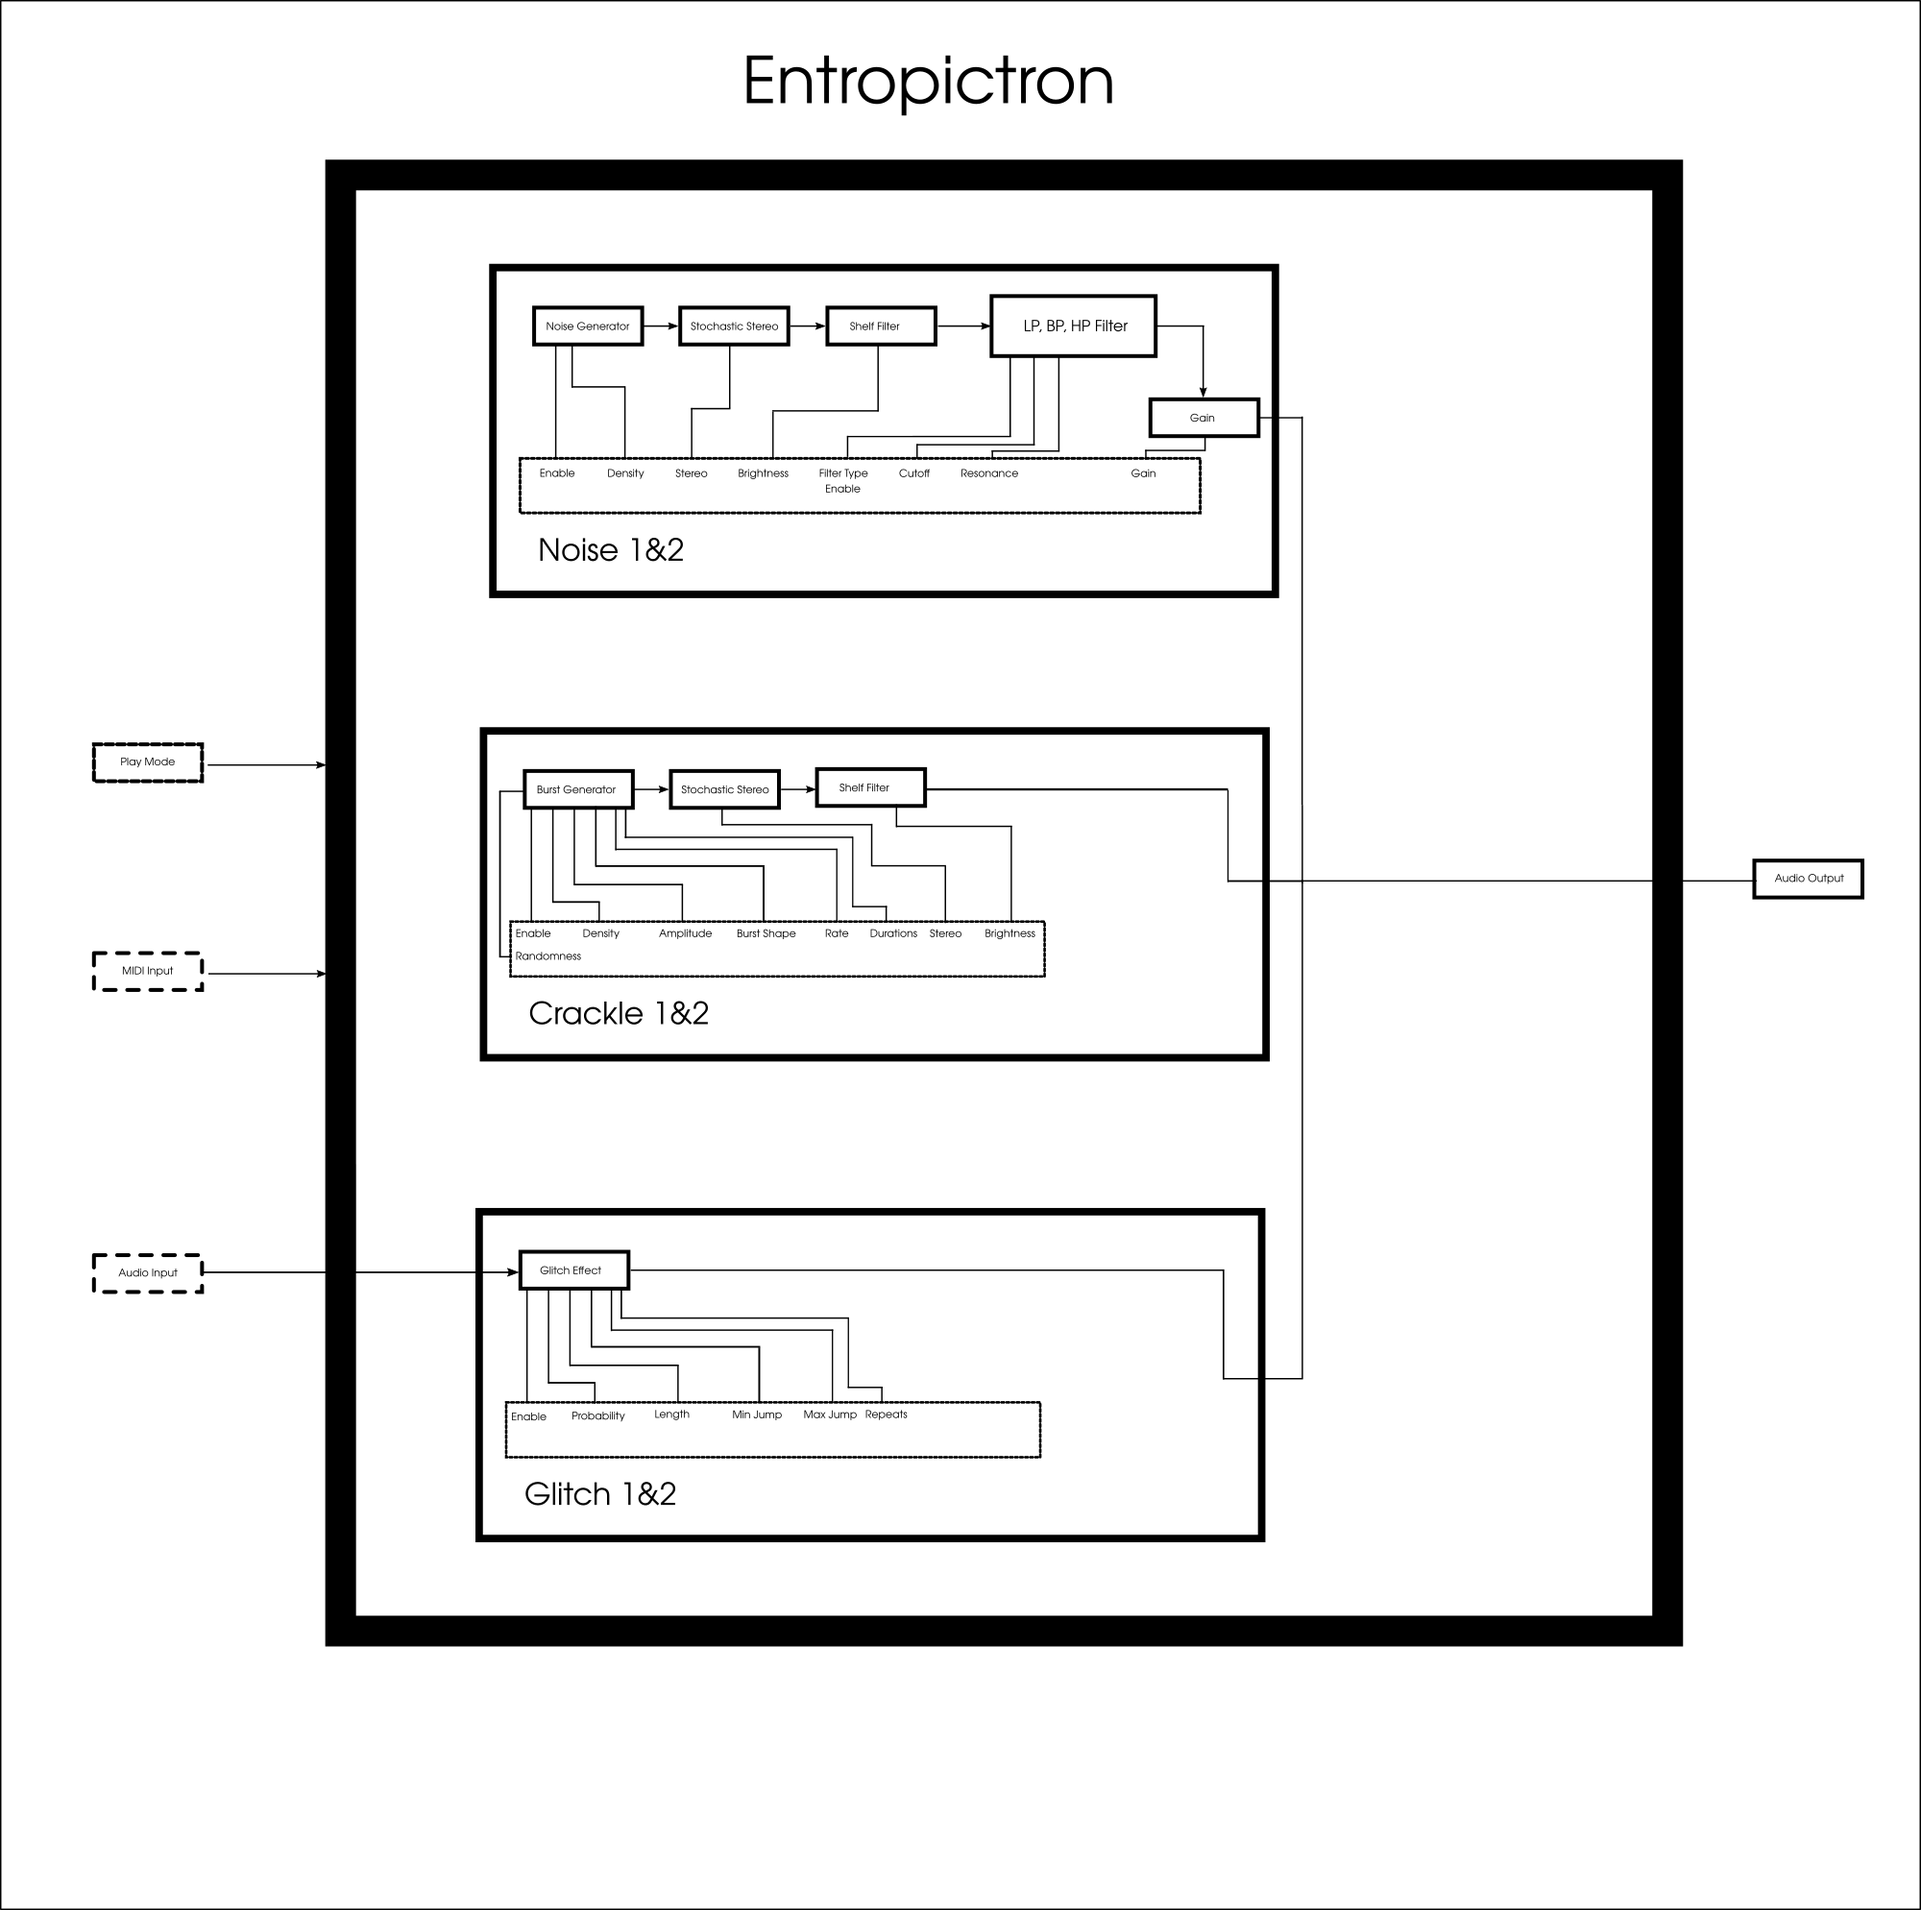
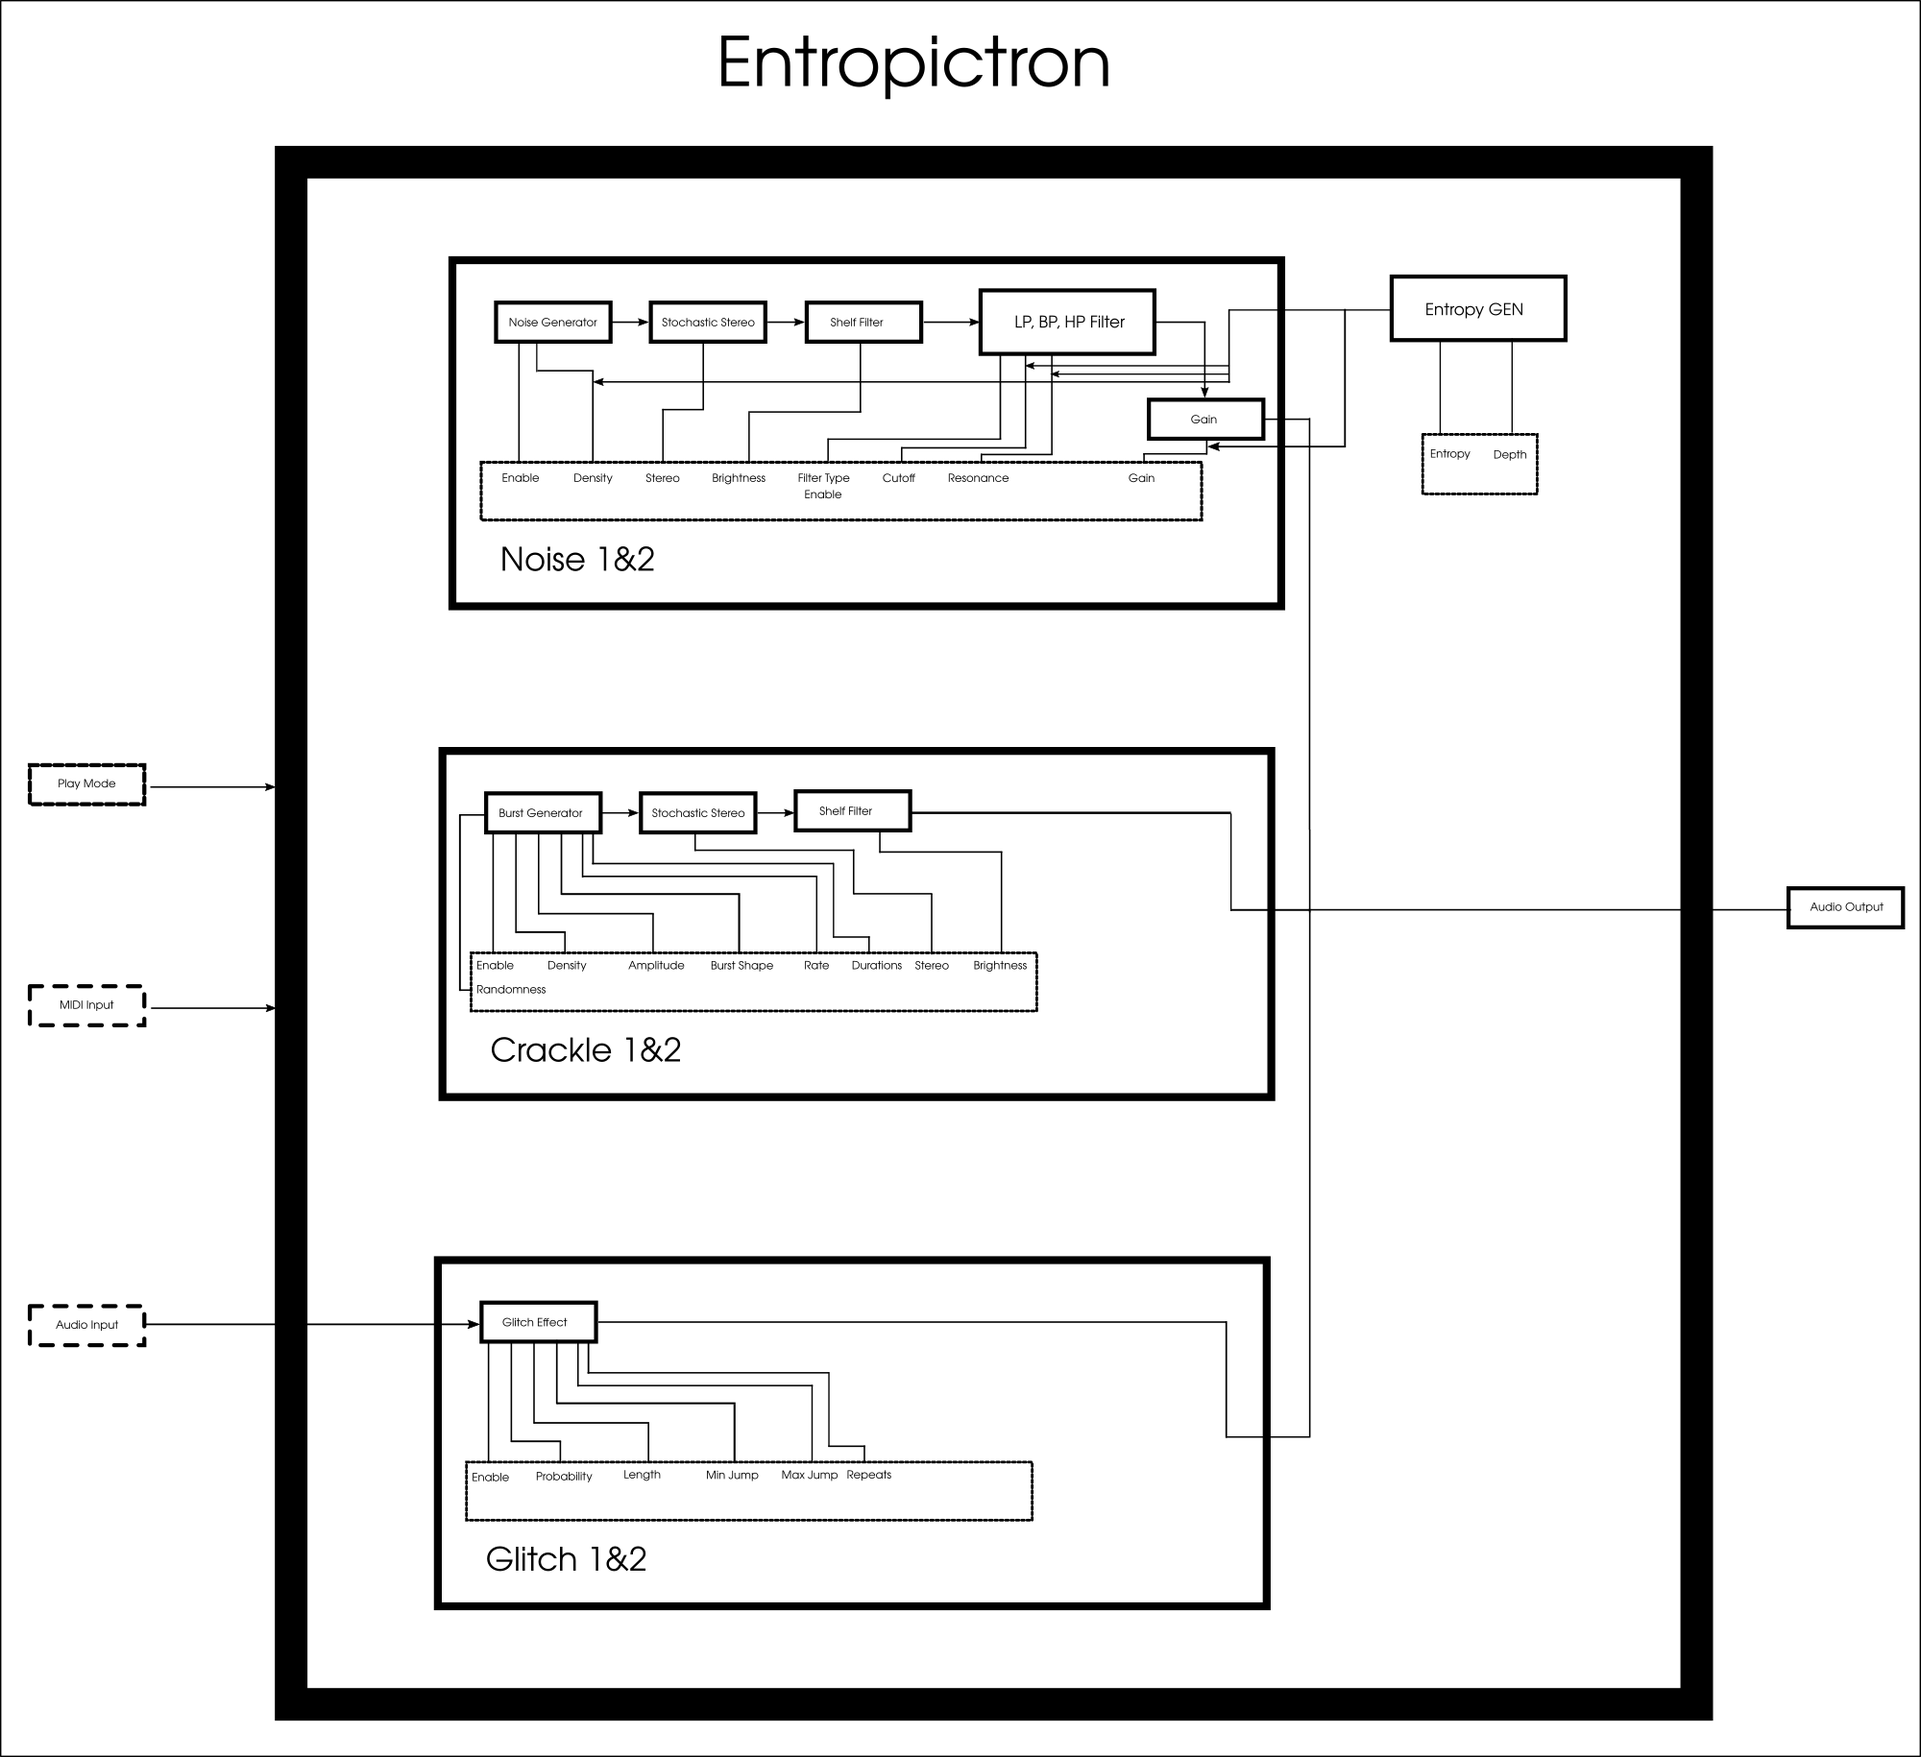
update doc

diff --git a/doc/Entropictron_User_Guide.md b/doc/Entropictron_User_Guide.md
@@ -6,6 +6,8 @@
 [Crackle](#crackle)
 [Glitch](#glitch)
 [Factory Presets](#factroy-presets)
+[Play Mode](#play-mode)
+[Global Entropy](#global-entropy)
 [Audio Plugin](#audio-plugin)
 [Build & Install](#build--install)
 
@@ -15,7 +17,7 @@
 
 **License:** This work (including all images it uses) is released under [CC0 1.0 Universal (CC0 1.0) Public Domain Dedication](https://creativecommons.org/publicdomain/zero/1.0/deed.en).
 
-**Version:** 1.0.0
+**Version:** 1.1.0
 
 **Website:** [https://quamplex.com/entropictron](https://quamplex.com/entropictron)
 
@@ -92,6 +94,30 @@ It has the following parameters:
 Factory presets are JSON-format files with the extension `*.entp`.
 They are installed in the corresponding user directory depending on the platform.
 The plugin UI loads these files and displays the list of available presets.
+
+### Play Mode
+
+The UI provides three buttons to select the play mode:
+
+- **Playback** – The audio plugin processes or generates audio only when the host is playing.
+- **Hold** – The audio plugin processes or generates audio only while a MIDI key is held.
+- **On** – The audio plugin always processes or generates audio.
+
+By default, the plugin is loaded in **Playback** mode. The selected mode is saved in the plugin state.
+
+### Global Entropy
+
+Global Entropy is a global random LFO (walker) that generates a value that changes over time.
+This entropy value modulates the **density**, **gain**, and **filter cutoff and resonance** of the Noise module.
+
+The entropy is controlled by two parameters:
+
+- **Entropy** – sets the rate at which the entropy value changes.
+- **Depth** – sets the amount (depth) of the entropy modulation.
+
+The UI contains knobs to control these two parameters.
+
+There is also an entropy value graph that shows the current entropy value in real time.
 
 ### Audio Plugin
 
